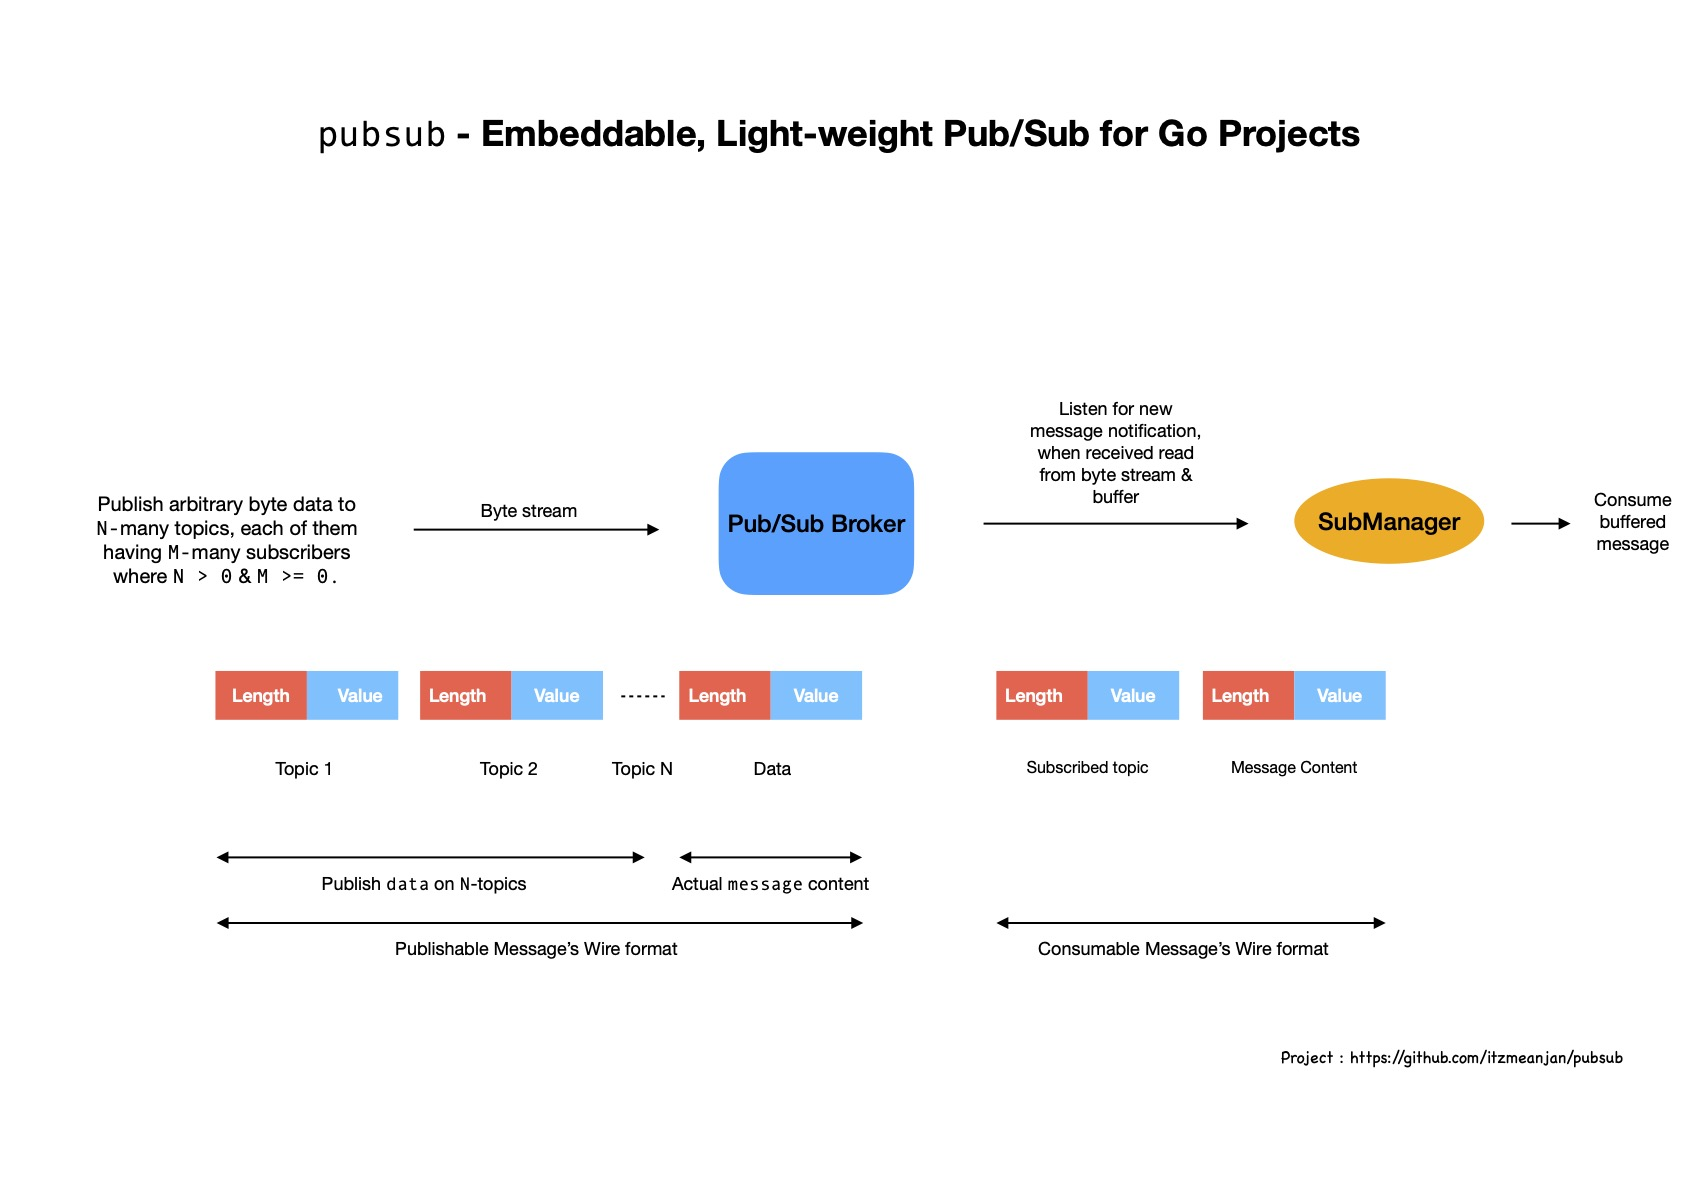
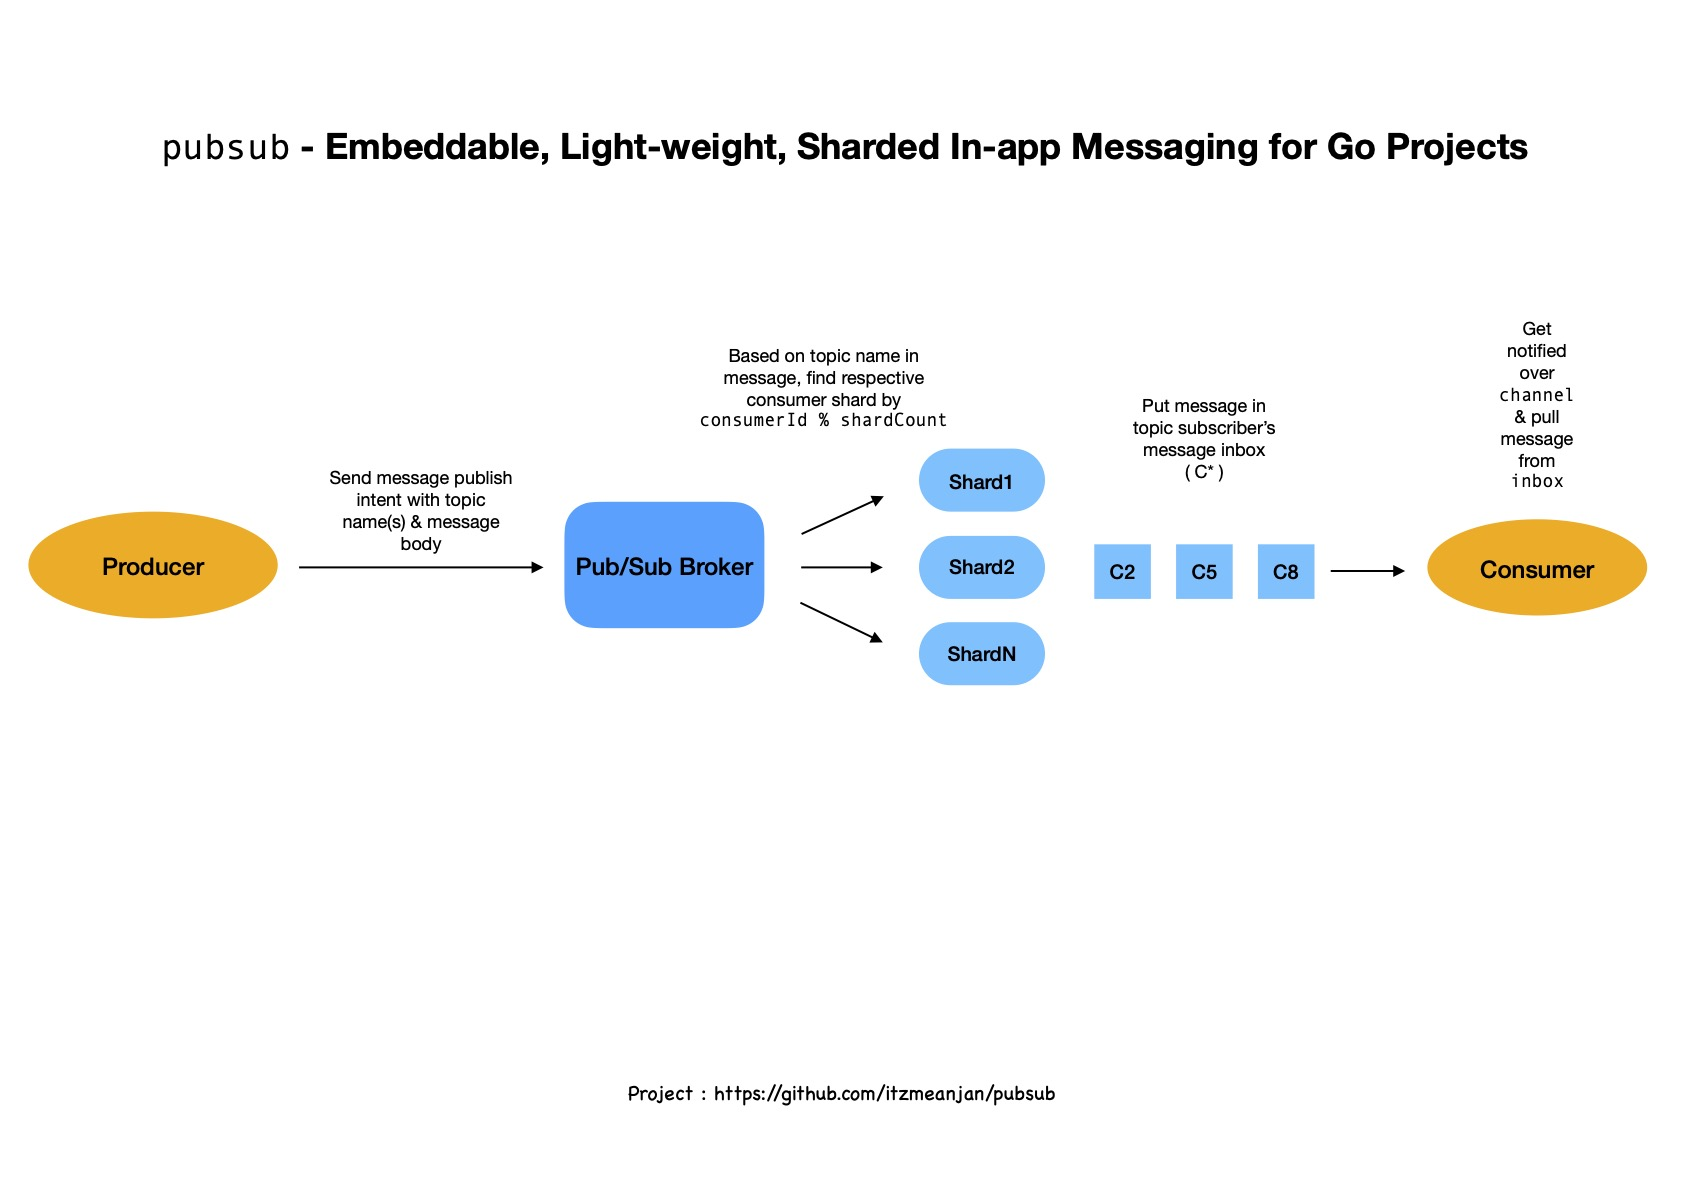
updated architecture diagram; doc updated

diff --git a/example/main.go b/example/main.go
@@ -7,6 +7,7 @@ import (
 )
 
 func main() {
+	// Creating broker with only 1 shard
 	broker := pubsub.New(1)
 
 	subscriber := broker.Subscribe(16, "topic_1", "topic_2")

diff --git a/README.md b/README.md
@@ -1,13 +1,15 @@
 # pubsub
-Embeddable Lightweight Pub/Sub in Go
+Embeddable, Lightweight, Sharded In-App Messaging in Go
 
 ## Motivation
 
-After using several Pub/Sub systems in writing production grade softwares for sometime, I decided to write one very simple, embeddable, light-weight Pub/Sub system using only native Go functionalities i.e. Go routines, Go channels, Streaming I/O.
+After using few Pub/Sub systems in writing production grade softwares, I decided to write one very simple, embeddable, light-weight, sharded in-app messaging system using only native Go functionalities.
 
-Actually, Go channels are **MPSC** i.e. multiple producers can push onto same channel, but there's only one consumer. You're very much free to use multiple consumers on single channel, but they will start competing for messages being published on channel i.e. all consumers won't see all messages published on channel.
+Actually, Go channels are **MPSC** i.e. multiple producers can push onto same channel, but there's only one consumer. You're very much free to use multiple consumers on single channel, but they will start competing for messages being published on channel i.e. all consumers won't see all messages published on channel. **MPMC** i.e. where multiple producers pushes messages to multiple consumers are also not directly implementable using channels.
 
-Good thing is that Go channels are concurrent-safe. So I considered extending it to make in-application communication more flexible, while leveraging Go's powerful streaming I/O for fast copying of messages from publisher stream to N-consumer stream(s). Below is what provided by this embeddable piece of software.
+Good thing is that Go channels are concurrent-safe. So I considered extending it to make in-application communication more flexible, while contending as less as possible by introducing consumer **shards** & consumer **message inboxes** i.e. resizeable buffer.
+
+Following communication patterns can be used with higher level abstractions.
 
 ✌ | Producer | Consumer
 --- | --: | --:
@@ -50,7 +52,7 @@ touch main.go
 Now add `github.com/itzmeanjan/pubsub` as your project dependency
 
 ```bash
-go get github.com/itzmeanjan/pubsub # v0.1.5 latest
+go get github.com/itzmeanjan/pubsub # v0.1.6 latest
 ```
 
 And follow full [example](./example/main.go).
@@ -64,12 +66,8 @@ If you're planning to use `pubsub` in your application
 - You should first start pub/sub broker using
 
 ```go
-broker := pubsub.New(ctx)
-
-// concurrent-safe utility method
-if !broker.IsAlive() {
-	return
-}
+// 2 consumer shards
+broker := pubsub.New(2)
 
 // Start using broker 👇
 ```
@@ -81,16 +79,16 @@ msg := pubsub.Message{
     Topics: []pubsub.String{pubsub.String("topic_1")},
     Data:   []byte("hello"),
 }
-ok, publishedTo := broker.Publish(&msg) // concurrent-safe
+consumerCount := broker.Publish(&msg) // concurrent-safe
 ```
 
 - If you're a subscriber, you should first subscribe to `N`-many topics, using `PubSub.Subscribe(...)`. 
 
 ```go
-subscriber := broker.Subscribe(ctx, 16, []string{"topic_1"}...)
+subscriber := broker.Subscribe(16, []string{"topic_1"}...)
 ```
 
-- You can start consuming messages using `Subscriber.Next(...)`
+- You can start consuming messages using `Subscriber.Next()`
 
 ```go
 for {
@@ -101,31 +99,52 @@ for {
 }
 ```
 
+- Or you can listen to notification sent over channel & act
+
+```go
+for {
+    select {
+        case <-ctx.Done():
+            // graceful shutdown
+            return
+        
+        case <-subscriber.Listener():
+            msg := subscriber.Next()
+            // pulled messsage, act now
+    }
+}
+```
+
+- Check if any consumable message living in inbox
+
+```go
+if !subscriber.Consumable() {
+    // nothing to consume
+    return
+}
+
+// consume them by pulling : `subscriber.Next()`
+```
+
 - Add more subscriptions on-the-fly using `Subscriber.AddSubscription(...)`
 
 ```go
-ok, subTo := subscriber.AddSubscription([]string{"topic_2"}...)
+topicCount := subscriber.AddSubscription([]string{"topic_2"}...)
 ```
 
 - Unsubscribe from specific topic using `Subscriber.Unsubscribe(...)`
 
 ```go
-ok, unsubFrom := subscriber.Unsubscribe([]string{"topic_1"}...)
+topicCount := subscriber.Unsubscribe([]string{"topic_1"}...)
 ```
 
-- Unsubscribe from all topics using `Subscriber.UnsubscribeAll(...)`
+- Unsubscribe from all topics using `Subscriber.UnsubscribeAll()`
 
 ```go
-ok, unsubFrom := subscriber.UnsubscribeAll()
+topicCount := subscriber.UnsubscribeAll()
 ```
 
-- Cancel context when you're done using subscriber **( or may be broker itself, but please be careful ❗ )**
-
-```go
-cancel()
-<-time.After(time.Duration(100) * time.Microsecond)
-// all good
-```
+- Destroy subscriber by `Subscriber.Destroy()`, which removes this subscriber's message inbox from broker's consumer shard - **No future message to be received.**
 
 **And all set 🚀**
 
